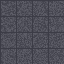
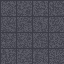
trying to fix the walls not showing up

diff --git a/create_sprite.py b/create_sprite.py
@@ -1,34 +1,93 @@
-from PIL import Image
-import random
+from PIL import Image, ImageDraw
+import os
 
-# Create a 64x64 dungeon floor sprite
-img = Image.new('RGB', (64, 64), (80, 80, 90))
-pixels = img.load()
+# Ensure assets/sprites directory exists
+os.makedirs('assets/sprites', exist_ok=True)
 
-# Add some texture and variation to the floor tiles
-for y in range(64):
-    for x in range(64):
-        # Base color with slight variations
-        base_r, base_g, base_b = 80, 80, 90
-        
-        # Add noise for texture
-        noise = random.randint(-15, 15)
-        
-        r = max(0, min(255, base_r + noise))
-        g = max(0, min(255, base_g + noise))
-        b = max(0, min(255, base_b + noise))
-        
-        pixels[x, y] = (r, g, b)
+# Create a 64x64 spritesheet with all 16 possible wall/doorway combinations (2^4)
+# Each row = North state, each column = East state. South and West are determined by rotation.
+# Image dimensions: 16 tiles x 4 rows? Wait no - we need 4 sides for each tile configuration.
 
-# Add some grid lines to make it look like tiles
-for x in range(0, 64, 16):
-    for y in range(64):
-        pixels[x, y] = (60, 60, 70)
-        
-for y in range(0, 64, 16):
-    for x in range(64):
-        pixels[x, y] = (60, 60, 70)
+# Actually: 4 sides -> 16 states total
+# We'll create a grid where:
+#   X-axis (columns) = East state (0=Wall, 1=Door)
+#   Y-axis (rows) = North state (0=Wall, 1=Door)
+# Then South and West are computed from the rotation.
 
-# Save the image
-img.save('dungeon_floor.png')
-print("Created dungeon_floor.png")
+# But for visualization, we want to see all four sides at once per tile.
+# Let's create a 4x4 grid of tiles in the spritesheet.
+
+sprite_size = 64
+total_tiles = 16
+
+# Create new image with space for all 16 tiles (4x4)
+img_width = sprite_size * 4
+img_height = sprite_size * 4
+spritesheet = Image.new('RGB', (img_width, img_height), (255, 255, 255))
+draw = ImageDraw.Draw(spritesheet)
+
+def get_tile_sprite(north, east, south, west):
+    # Create a single tile with the specified states
+    # This will be drawn on the spritesheet at position (x * sprite_size, y * sprite_size)
+    
+    # For each side:
+    #   Wall = black border line
+    #   Doorway = white border line
+    
+    # Draw the tile background
+    for x in range(sprite_size):
+        for y in range(sprite_size):
+            r, g, b = 80, 80, 90
+            if (x % 16 == 0) or (y % 16 == 0):  # Grid lines
+                r, g, b = 60, 60, 70
+            draw.point((x, y), (r, g, b))
+    
+    # Draw borders based on states:
+    if north == 0:  # Wall top
+        for x in range(sprite_size):
+            draw.line([(x, 0), (x, 1)], fill=(0, 0, 0))  # Top border is black wall
+    else:  # Door top
+        for x in range(sprite_size):
+            draw.line([(x, 0), (x, 1)], fill=(255, 255, 255))  # White door
+    
+    if east == 0:  # Wall right
+        for y in range(sprite_size):
+            draw.line([(sprite_size-1, y), (sprite_size, y)], fill=(0, 0, 0))
+    else:
+        for y in range(sprite_size):
+            draw.line([(sprite_size-1, y), (sprite_size, y)], fill=(255, 255, 255))
+    
+    if south == 0:  # Wall bottom
+        for x in range(sprite_size):
+            draw.line([(x, sprite_size-1), (x, sprite_size)], fill=(0, 0, 0))
+    else:
+        for x in range(sprite_size):
+            draw.line([(x, sprite_size-1), (x, sprite_size)], fill=(255, 255, 255))
+    
+    if west == 0:  # Wall left
+        for y in range(sprite_size):
+            draw.line([(0, y), (1, y)], fill=(0, 0, 0))
+    else:
+        for y in range(sprite_size):
+            draw.line([(0, y), (1, y)], fill=(255, 255, 255))
+    
+    return spritesheet
+
+# Generate all combinations
+for i in range(16):  # 16 possible states (4 bits)
+    north = (i >> 3) & 1  # Bit 3
+    east = (i >> 2) & 1   # Bit 2
+    south = (i >> 1) & 1  # Bit 1
+    west = i & 1          # Bit 0
+    
+    # Calculate position in grid
+    x_pos = (i % 4) * sprite_size
+    y_pos = (i // 4) * sprite_size
+    
+    # Create the tile image and paste it into spritesheet
+    tile_img = get_tile_sprite(north, east, south, west)
+    spritesheet.paste(tile_img, (x_pos, y_pos))
+
+# Save the final spritesheet
+spritesheet.save('assets/sprites/tile_sprites.png')
+print("Created assets/sprites/tile_sprites.png with all 16 wall/doorway combinations")
